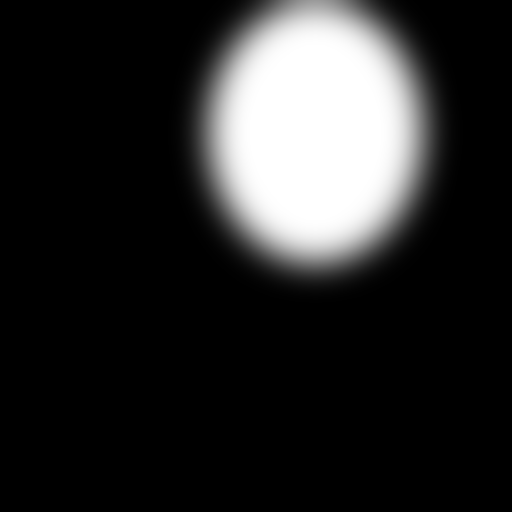
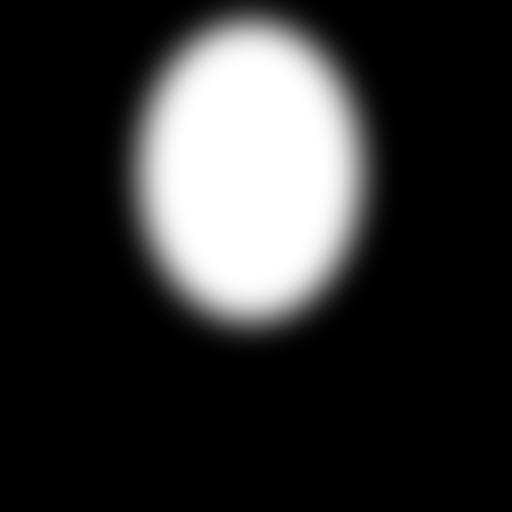
Reposition the head masks: all five sat too high and cut off the chin
The masks were hand-placed and never checked against the actual faces. All
five were off. Measured with YuNet against the previous ellipse centres:

  image    face centre   old mask centre   error (x, y)
  obama    (250, 168)    (207, 120)        -43, -48
  lebron   (225, 118)    (258, 107)        +33, -11
  ronaldo  (234, 200)    (262, 122)        +28, -78
  musk     (253, 166)    (257, 109)         +4, -57
  trump    (245, 189)    (315, 132)        +70, -57

Every one clipped at y=0 and ended near the mouth, so the chin and jaw were
outside the preserved region -- exactly the part whose replacement destroys
identity under strength 0.8.

New (cx, cy, rx, ry), measured per image off a labelled grid, bounded by the
hairline, the chin and the ears:

  obama    (207,122, 92,120) -> (250,160, 95,140)
  lebron   (258,108, 78,108) -> (225,126, 73, 99)
  ronaldo  (262,125, 82,120) -> (239,186,111,159)
  musk     (257,110, 76,110) -> (249,148, 81,137)
  trump    (315,132,106,130) -> (250,171,110,149)

The placement now lives in scripts/make_headmasks.py instead of an ad-hoc
snippet, and the script refuses to emit a mask whose bounding box does not
contain YuNet's face box. That check fails on every one of the old five.

Claude-Session: https://claude.ai/code/session_01SwmAJq6ZFbhdYrZS3oU6RG

Changed region(s): [[0.2188, 0.0, 0.875, 0.6875]]

diff --git a/scripts/make_headmasks.py b/scripts/make_headmasks.py
@@ -1,0 +1,97 @@
+"""產生人物影像的頭部遮罩。
+
+用途：`--strength 0.8` 的 SDEdit 會把整張臉換掉，未防禦的編輯連身分都不剩，
+量出來的位移量就不是「編輯被推開多少」而是「人被換成另一個人多少」。遮罩讓
+頭部在編輯過程中被保留（`src/models/sd.py` 的 latent 混合，不是 inpainting，
+UNet 仍是四通道的 stock 權重）。
+
+範圍是**整顆頭**，不是人臉偵測框：偵測框只從眉毛到下巴，不含頭髮與下顎。
+`HEAD` 的四個數字是 (cx, cy, rx, ry)，由 512x512 影像上的網格逐張目視量得，
+邊界取髮頂、下巴、兩側耳廓。2026-08-17 重量：先前的一組五張全部偏高
+（y 差 11-78 px）、水平最多偏 70 px，下緣切在嘴巴上，下巴與下顎露在遮罩外。
+
+檢核不是裝飾：YuNet 偵測到的人臉框必須完全落在頭部橢圓的外接框內。這條若不
+成立就是量錯了，直接報錯而不是產出一張看起來合理的遮罩。YuNet 的模型檔不入
+版控，給 --detector 指到本機的 .onnx 才會做檢核。
+
+    python scripts/make_headmasks.py --data data/set0817
+    python scripts/make_headmasks.py --data data/set0817 --detector <path>/yunet.onnx
+"""
+
+from __future__ import annotations
+
+import argparse
+from pathlib import Path
+
+import numpy as np
+from PIL import Image, ImageDraw, ImageFilter
+
+# (cx, cy, rx, ry)，單位是 512x512 影像上的像素。
+HEAD = {
+    "obama":   (250, 160,  95, 140),
+    "lebron":  (225, 126,  73,  99),
+    "ronaldo": (239, 186, 111, 159),
+    "musk":    (249, 148,  81, 137),
+    "trump":   (250, 171, 110, 149),
+}
+
+FEATHER = 16   # 高斯羽化半徑。硬邊會在 latent 混合處留下可見的接縫。
+SIZE = 512
+
+
+def ellipse_mask(cx: int, cy: int, rx: int, ry: int, size: int) -> Image.Image:
+    m = Image.new("L", (size, size), 0)
+    ImageDraw.Draw(m).ellipse([cx - rx, cy - ry, cx + rx, cy + ry], fill=255)
+    return m.filter(ImageFilter.GaussianBlur(FEATHER))
+
+
+def detect_face(det, path: Path) -> tuple[float, float, float, float]:
+    import cv2
+    img = cv2.imread(str(path))
+    det.setInputSize((img.shape[1], img.shape[0]))
+    _, faces = det.detect(img)
+    if faces is None:
+        raise ValueError(f"{path.name}：YuNet 偵測不到人臉，無法檢核")
+    f = faces[int(np.argmax(faces[:, 2] * faces[:, 3]))]
+    x, y, w, h = (float(v) for v in f[:4])
+    return x, y, x + w, y + h
+
+
+def main() -> None:
+    ap = argparse.ArgumentParser(description=__doc__)
+    ap.add_argument("--data", type=Path, default=Path("data/set0817"))
+    ap.add_argument("--detector", type=Path, default=None,
+                    help="YuNet 的 .onnx。給了才做人臉框包含性檢核。")
+    args = ap.parse_args()
+
+    out = args.data / "headmasks"
+    out.mkdir(parents=True, exist_ok=True)
+
+    det = None
+    if args.detector:
+        import cv2
+        det = cv2.FaceDetectorYN.create(str(args.detector), "", (SIZE, SIZE), 0.6, 0.3, 5000)
+
+    for name, (cx, cy, rx, ry) in HEAD.items():
+        src = args.data / name / f"{name}_00.png"
+        if not src.exists():
+            raise FileNotFoundError(src)
+
+        if det is not None:
+            fx0, fy0, fx1, fy1 = detect_face(det, src)
+            hx0, hy0, hx1, hy1 = cx - rx, cy - ry, cx + rx, cy + ry
+            if not (hx0 <= fx0 and fx1 <= hx1 and hy0 <= fy0 and fy1 <= hy1):
+                raise ValueError(
+                    f"{name}：人臉框 x[{fx0:.0f},{fx1:.0f}] y[{fy0:.0f},{fy1:.0f}] "
+                    f"沒有完全落在頭部框 x[{hx0},{hx1}] y[{hy0},{hy1}] 內")
+            print(f"{name:9s} 人臉框 x[{fx0:.0f},{fx1:.0f}] y[{fy0:.0f},{fy1:.0f}] "
+                  f"落在頭部框 x[{hx0},{hx1}] y[{hy0},{hy1}] 內")
+
+        m = ellipse_mask(cx, cy, rx, ry, SIZE)
+        m.save(out / f"{name}_00.png")
+        cov = float(np.asarray(m, dtype=np.float32).mean()) / 255.0
+        print(f"{name:9s} -> {out / f'{name}_00.png'}  平均權重 {cov * 100:.1f}%")
+
+
+if __name__ == "__main__":
+    main()
